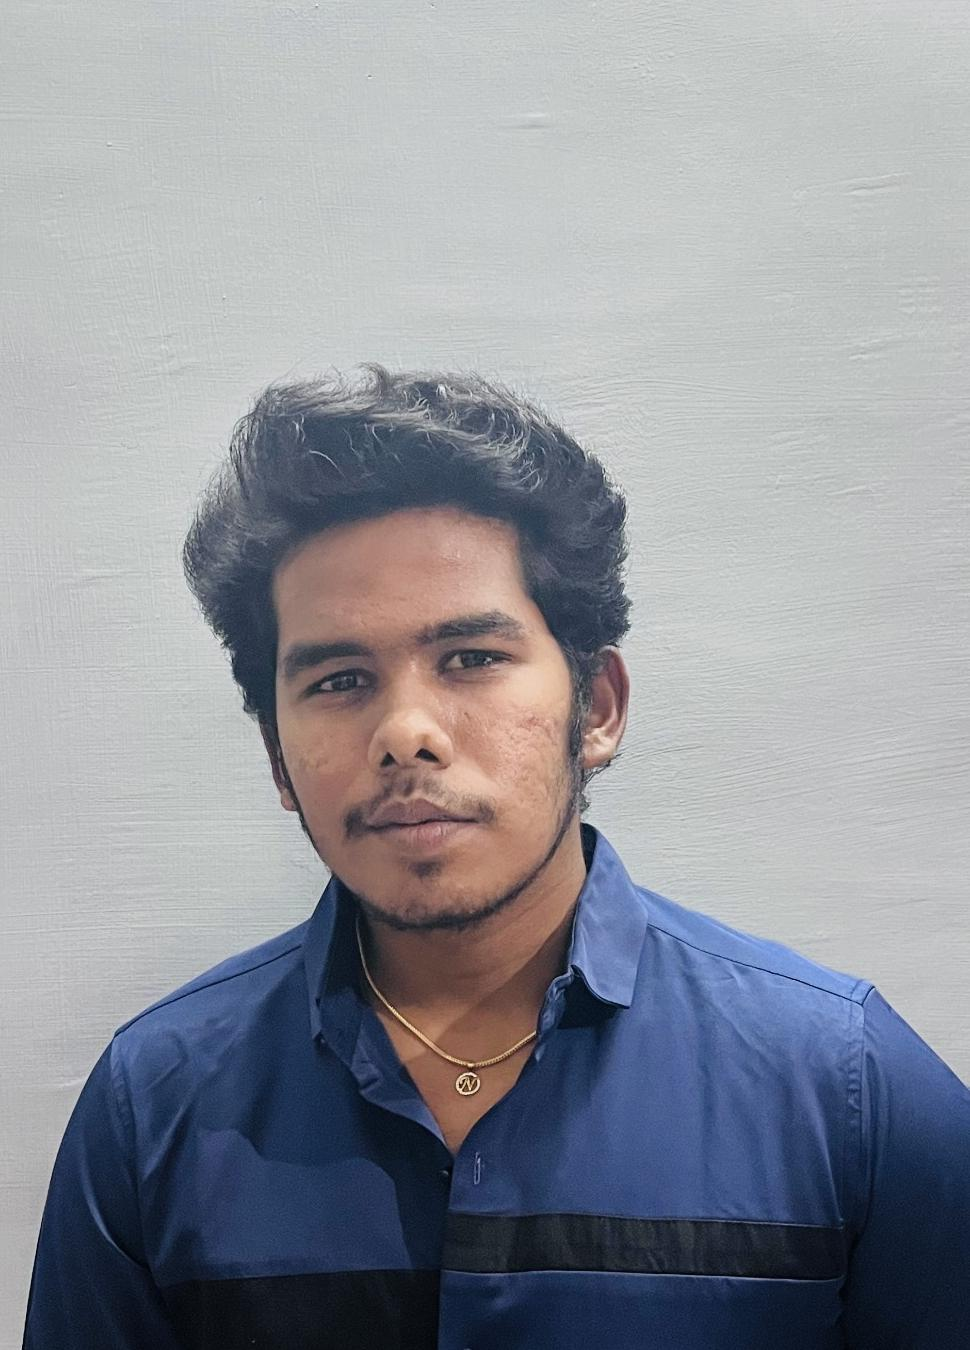
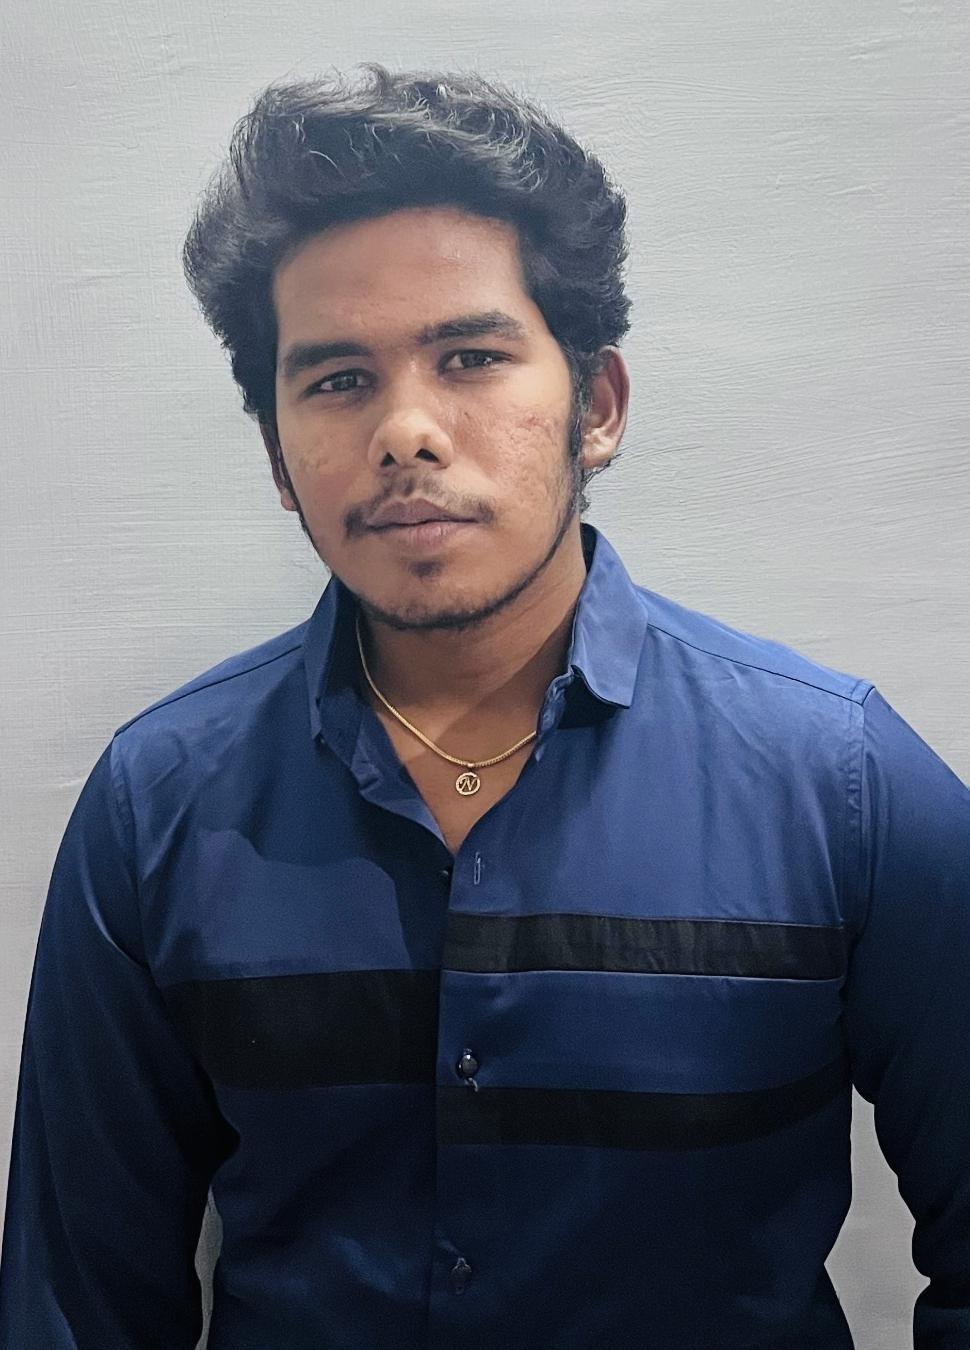
feat: add committee images for Abirami, Dhanusiya, and Vinuvarsan and finalize Naresh framing

diff --git a/index.html b/index.html
@@ -5459,10 +5459,10 @@
       { isHead: false, name: 'Arriram', role: 'Joint Coordinator', dept: '', img: 'assets/committee/Ariram .jpg.jpeg', phone: '+910000000000', linkedin: '#' },
       { isHead: false, name: 'Abinayaa', role: 'Joint Coordinator', dept: '', img: 'assets/committee/abinayaa_cropped.jpg', phone: '+910000000000', linkedin: '#' },
       { isHead: false, name: 'Adharsini', role: 'Joint Coordinator', dept: '', img: 'assets/committee/adarshini_v9.jpg', phone: '+910000000000', linkedin: '#' },
-      { isHead: false, name: 'Abirami', role: 'Joint Coordinator', dept: '', img: 'https://ui-avatars.com/api/?name=Abirami&background=e8541a&color=fff&size=128', phone: '+910000000000', linkedin: '#' },
+      { isHead: false, name: 'Abirami', role: 'Joint Coordinator', dept: '', img: 'assets/committee/abirami_cropped.jpg', phone: '+910000000000', linkedin: '#' },
       { isHead: false, name: 'Devadharshini', role: 'Joint Coordinator', dept: '', img: 'assets/committee/devadharshini_cropped.jpg', phone: '+910000000000', linkedin: '#' },
       { isHead: false, name: 'Dharshan', role: 'Joint Coordinator', dept: '', img: 'assets/committee/Dharshan.jpeg', phone: '+910000000000', linkedin: '#' },
-      { isHead: false, name: 'Dhanusiya', role: 'Joint Coordinator', dept: '', img: 'https://ui-avatars.com/api/?name=Dhanusiya&background=e8541a&color=fff&size=128', phone: '+910000000000', linkedin: '#' },
+      { isHead: false, name: 'Dhanusiya', role: 'Joint Coordinator', dept: '', img: 'assets/committee/dhanushya_cropped.jpg', phone: '+910000000000', linkedin: '#' },
       { isHead: false, name: 'Deva Priyan', role: 'Joint Coordinator', dept: '', img: 'assets/committee/Devapriyan.jpg', phone: '+910000000000', linkedin: '#' },
       { isHead: false, name: 'Mathivadhana', role: 'Joint Coordinator', dept: '', img: 'assets/committee/mathivadhana_cropped.jpg', phone: '+910000000000', linkedin: '#' },
       { isHead: false, name: 'Jeevesh', role: 'Joint Coordinator', dept: '', img: 'assets/committee/jeevesh_cropped.jpg', phone: '+910000000000', linkedin: '#' },
@@ -5475,7 +5475,7 @@
       { isHead: false, name: 'Sankari', role: 'Joint Coordinator', dept: '', img: 'assets/committee/sankari_cropped.jpg', phone: '+910000000000', linkedin: '#' },
       { isHead: false, name: 'Sudharsan', role: 'Joint Coordinator', dept: '', img: 'assets/committee/Sudharsan.jpeg', phone: '+910000000000', linkedin: '#' },
       { isHead: false, name: 'Vijay Kasthuri', role: 'Joint Coordinator', dept: '', img: 'assets/committee/vijay_kasthuri_cropped.jpg', phone: '+910000000000', linkedin: '#' },
-      { isHead: false, name: 'Vinuvarsan', role: 'Joint Coordinator', dept: '', img: 'https://ui-avatars.com/api/?name=Vinuvarsan&background=e8541a&color=fff&size=128', phone: '+910000000000', linkedin: '#' },
+      { isHead: false, name: 'Vinuvarsan', role: 'Joint Coordinator', dept: '', img: 'assets/committee/vinuvarsan_cropped.jpg', phone: '+910000000000', linkedin: '#' },
       
       /* ── MULTIMEDIA TEAM ── */
       { isHead: false, name: 'Naveen Sakthi', role: 'Multimedia Team', dept: '', img: 'assets/committee/naveen.jpg', phone: '+910000000000', linkedin: '#' },
